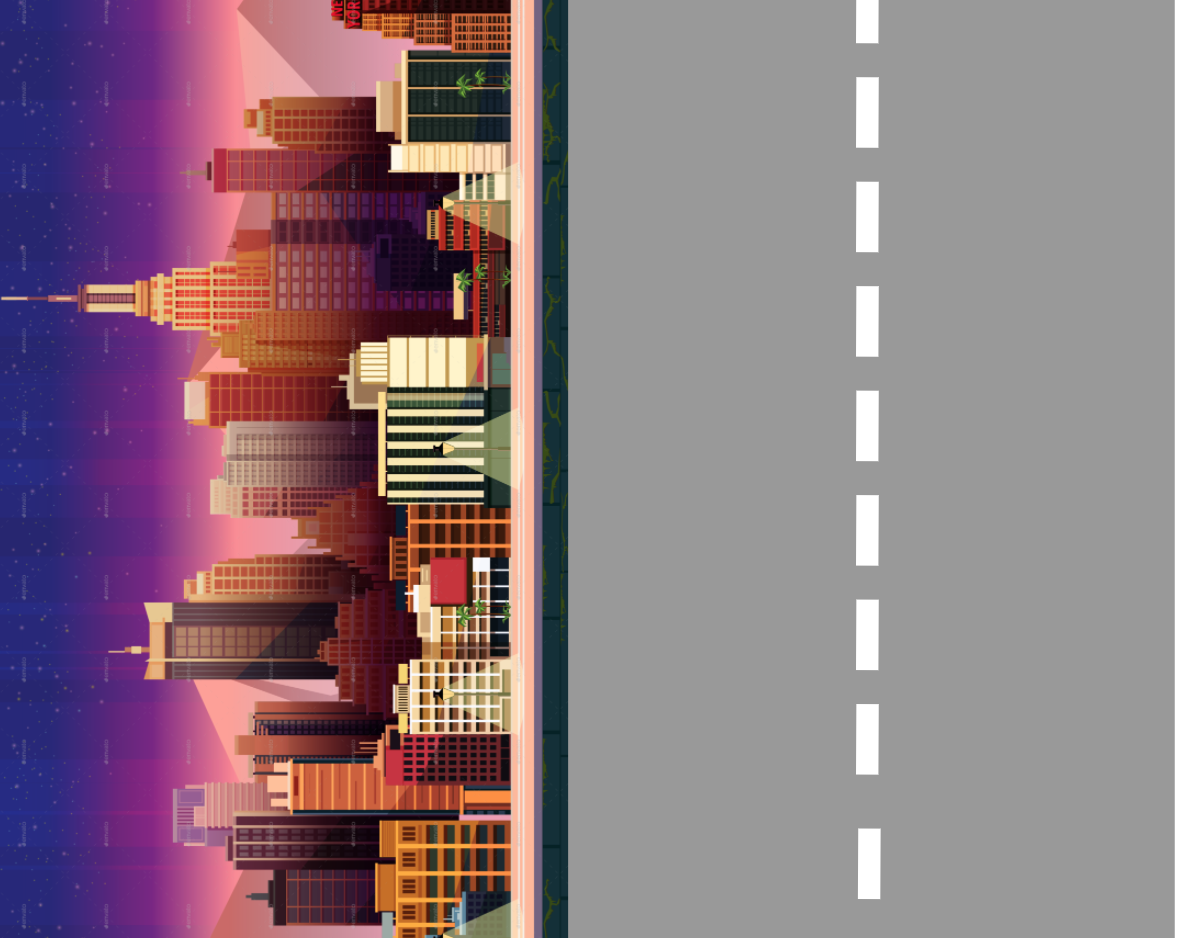
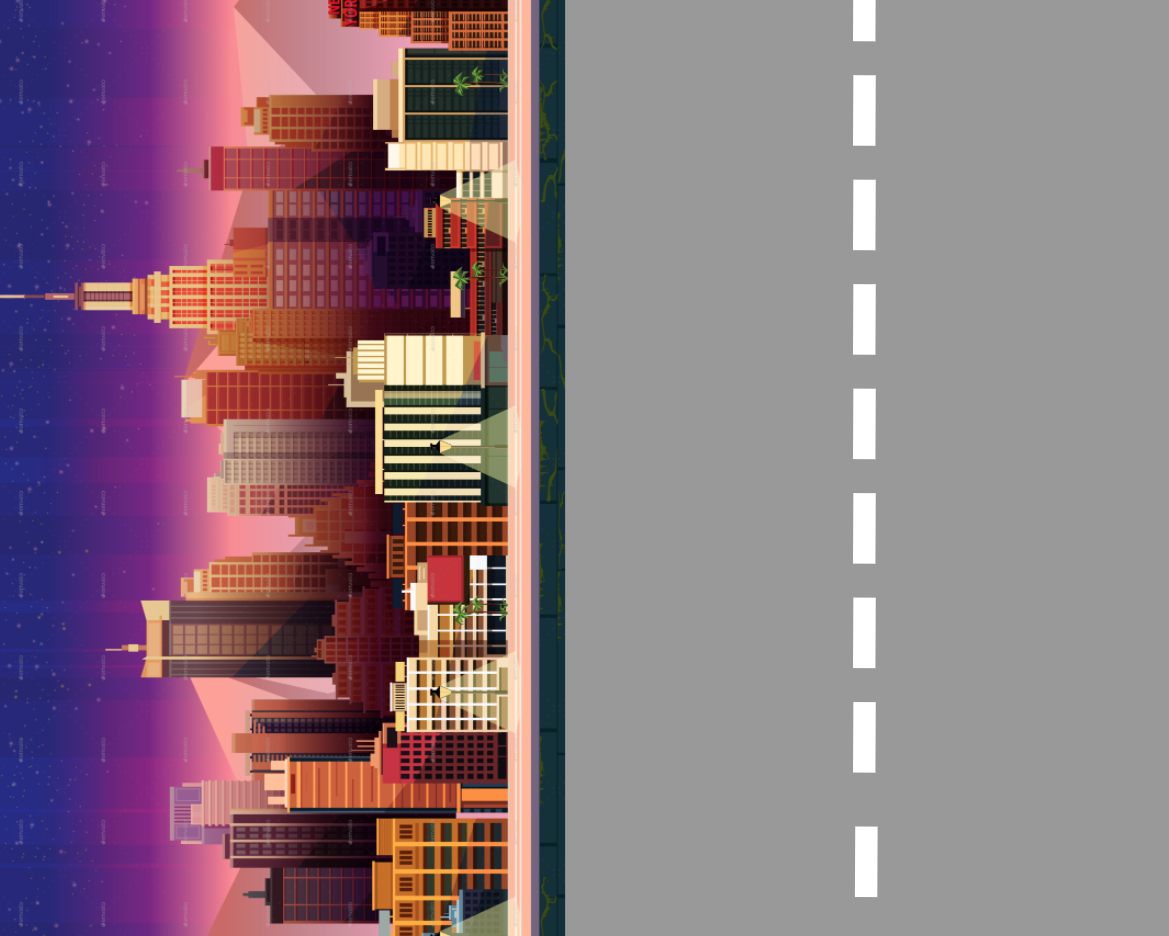
pretty minor adjustements

diff --git a/index.html b/index.html
@@ -1,34 +1,30 @@
 <!DOCTYPE html>
 <html lang="en">
-
 <head>
   <meta charset="UTF-8">
   <meta name="viewport" content="width=device-width, initial-scale=1.0">
   <meta http-equiv="X-UA-Compatible" content="ie=edge">
   <link rel="stylesheet" href="./css/style.css">
   <title>Shopaholic</title>
+  <script src="./lib/obstacles.js"></script>
+  <script src="./lib/shopper.js"></script>
+  <script src="./lib/board.js"></script>
+  <script src="./lib/game.js"></script>
+  <script src="./lib/index.js"></script>
 </head>
-
 <body>
+    <div class="title">
+      <h1>Shopaholic</h1>
+      <p>Welcome to New York!</p>
+      <p>How much can you buy?</p>
+    </div>
+    <div id="game-board">
+      <canvas id="canvas"></canvas>
+    </div>
+    <div class="instructions">
+      <button id="start-button">Start Game</button>
+      <p>Use the left and right arrow to control the shoppaholic!</p>
+      <img src="./img/arrows.png" alt="arrows" class="arrows-img" width=150 />
+    </div>
 </body>
-<div>
-  <div class="title">
-    <h1>Shopaholic</h1>
-    <p>Welcome to New York!</p>
-    <p>How much can you buy?</p>
-  </div>
-  <div id="game-board">
-    <canvas id="canvas"></canvas>
-    <script src="./lib/config.js"></script>
-    <script src="./lib/obstacles.js"></script>
-    <script src="./lib/shopper.js"></script>
-    <script src="./lib/board.js"></script>
-    <script src="./lib/game.js"></script>
-      <script src="./lib/index.js"></script>
-  </div>
-  <button id="start-button" class="btn">Start Game</button>
-  <p>Use the left and right arrow to control the shoppaholic!</p>
-  <img src="./img/arrows.png" alt="arrows" class="arrows-img" width>
-</div>
-
 </html>

diff --git a/lib/obstacles.js b/lib/obstacles.js
@@ -1,5 +1,35 @@
-function Obstacle() {
-  this.canvas = canvas;
+var obstacleSourceImageArray = [{
+    source: "./img/obstacles/gap.png",
+    price: 70
+  },
+  {
+    source: "./img/obstacles/starbucks.png",
+    price: 10
+  },
+  {
+    source: "./img/obstacles/hm.png",
+    price: 50
+  },
+  {
+    source: "./img/obstacles/sephora.png",
+    price: 30
+  },
+  {
+    source: "./img/obstacles/statueofliberty.png",
+    price: 20
+  },
+  {
+    source: "./img/obstacles/uniqlo.png",
+    price: 90
+  },
+  {
+    source: "./img/obstacles/urban.png",
+    price: 150
+  }
+];
+
+
+function Obstacle(ctx, defaultObstacleSpeed = 2) {
   this.ctx = ctx;
   this.x = this.getRandomObstacleXPosition();
   this.y = 0;
@@ -9,7 +39,8 @@ function Obstacle() {
   this.img.price = this.imgArray[this.getRandomImage()].price;
   this.ow = 80;
   this.oh = 80;
-  this.speed = obstacleActualSpeed;
+  this.obstaclesSpeed = defaultObstacleSpeed;
+  this.speed = (Math.random() + 0.5) * this.obstaclesSpeed;
 }
 
 
@@ -24,6 +55,7 @@ Obstacle.prototype.getRandomImage = function() {
 };
 
 Obstacle.prototype.getRandomObstacleXPosition = function() {
-  var random = Math.floor(Math.random() * (streetW - 80) + shopperCanMove);
-  return random;
+  var shopperCanMove = 410;
+  var streetW = 410;
+  return Math.floor(Math.random() * (streetW - 80) + shopperCanMove);
 };

diff --git a/css/style.css b/css/style.css
@@ -1,32 +1,35 @@
 @import url('https://fonts.googleapis.com/css?family=Open+Sans');
-body{
-  background-image: url(../img/background.jpg);
-  background-repeat: no-repeat;
-  font-family: "Open Sans";
-  position: absolute;
-
+html,body{
+  margin:0;
+  padding:0;
 }
-.arrows-img {
-  width: 150px;
-  position:relative;
+
+body{
+  background: url(../img/background.png);
+  background-size: cover;
+  font-family: "Open Sans";
+}
+
+#game-board{
+  text-align: center;
 }
 .title{
   text-align: center;
-  flex-direction: column;
-  position:relative;
-
 }
-.btn {
-  position: relative;
-  display: block;
-  margin: auto;
+#start-button{
   padding: 20px;
-  overflow: hidden;
   border-width: 0;
   outline: none;
   border-radius: 2px;
   box-shadow: 0 1px 4px rgba(0, 0, 0, .6);
   background-color: black;
   color: white;
+  font-size: 25px;
+  text-transform: uppercase;
   transition: background-color .3s;
+}
+
+.instructions{
+  text-align: center;
+  margin-bottom: 80px;
 }

diff --git a/lib/board.js b/lib/board.js
@@ -1,22 +1,21 @@
-function GameBoard() {
-  this.canvas = canvas;
+function GameBoard(ctx, w, h, defaultBackgroundSpeed = 2) {
   this.ctx = ctx;
   this.x = 0;
   this.y = 0;
   this.img = new Image();
   this.img.src = "./img/newYork.png";
-  this.imgW = this.canvas.width;
-  this.imgH = this.canvas.height;
+  this.imgW = w;
+  this.imgH = h;
   this.score = 1000;
   this.buy = 20;
-  this.backgroundSpeed = backgroundActualSpeed;
+  this.backgroundSpeed = defaultBackgroundSpeed; // Default background speed
   this.img.onload = (function() {
   }).bind(this);
 }
 
 GameBoard.prototype.draw = function() {
   this.ctx.save();
-  if (this.y > this.canvas.height) this.y = 0;
+  if (this.y > this.imgH) this.y = 0;
   this.ctx.drawImage(this.img, this.x, this.y, this.imgW, this.imgH);
   this.ctx.drawImage(this.img, this.x, this.y - this.imgH, this.imgW, this.imgH);
   this.y += 2;

diff --git a/lib/game.js b/lib/game.js
@@ -1,11 +1,12 @@
 function Game() {
-  this.canvas = canvas;
-  this.ctx = ctx;
+  this.canvas = document.getElementById("canvas");
+  this.ctx = canvas.getContext("2d");
+
   this.canvas.width = 850;
   this.canvas.height = 750;
   this.repeatedObstacles = [];
-  this.gameBoard = new GameBoard();
-  this.shopper = new Shopper();
+  this.gameBoard = new GameBoard(this.ctx, this.canvas.width, this.canvas.height);
+  this.shopper = new Shopper(this.ctx, this.canvas.width, this.canvas.height);
   this.obstacles = [];
   this.budget = 1000;
 
@@ -15,7 +16,7 @@ function Game() {
 Game.prototype.startCreatingObstacles = function() {
   var that = this;
   setInterval(function() {
-    var obstacle = new Obstacle();
+    var obstacle = new Obstacle(that.ctx);
     obstacle.draw();
     that.obstacles.push(obstacle);
     if (that.obstacles.length > 5) {

diff --git a/lib/index.js b/lib/index.js
@@ -1,21 +1,17 @@
-var game;
-
 window.onload = function() {
-  game = new Game();
 
   document.getElementById("start-button").onclick = function() {
+    var game = new Game();
     game.start();
-    
-  };
-
-  document.onkeydown = function(e) {
-    switch (e.keyCode) {
-      case 37:
-        game.shopper.moveLeft();
-        break;
-      case 39:
-        game.shopper.moveRight();
-        break;
-    }
+    document.onkeydown = function(e) {
+      switch (e.keyCode) {
+        case 37:
+          game.shopper.moveLeft();
+          break;
+        case 39:
+          game.shopper.moveRight();
+          break;
+      }
+    };
   };
 };

diff --git a/lib/shopper.js b/lib/shopper.js
@@ -1,14 +1,15 @@
-function Shopper() {
-  this.canvas = canvas;
+function Shopper(ctx,w,h) {
   this.ctx = ctx;
   this.x = 425;
   this.sx = 415;
+  this.w = w;
+  this.h = h;
   this.img = new Image();
   this.img.src = './img/shopper.jpg';
   this.img.w = 60;
   this.img.h = 150;
   this.dx = 20;
-  this.y = this.canvas.height - this.img.h;
+  this.y = h - this.img.h;
 }
 
 Shopper.prototype.draw = function() {
@@ -24,7 +25,7 @@ Shopper.prototype.moveLeft = function() {
 };
 
 Shopper.prototype.moveRight = function() {
-  if (this.x < (this.canvas.width - this.img.w)) {
+  if (this.x < (this.w - this.img.w)) {
     this.x += this.dx;
   }
 };
